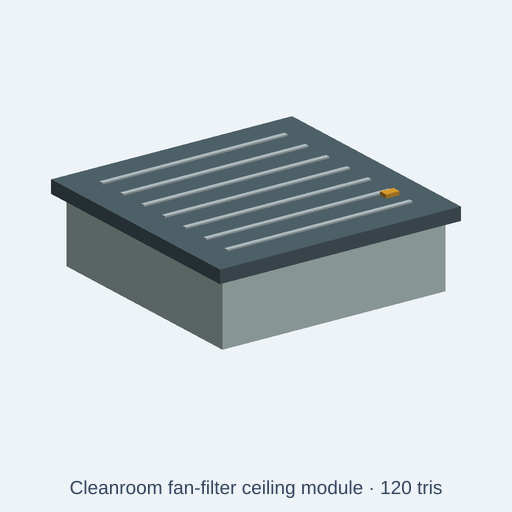
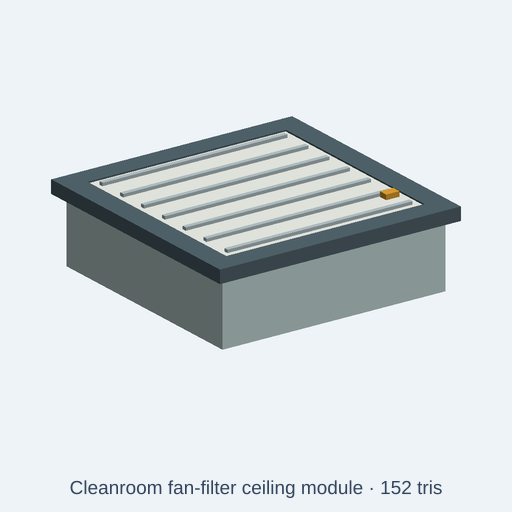
fix(catalog): add HEPA filter media to fan-filter unit
The room-side face of lab-infrastructure/cleanroom-fan-filter-unit was a
solid structural-steel plate with no filter media. Cut the plate into a
steel perimeter flange and add a filter-media part with a filterMedia
colour control and preset values. Envelope unchanged; 120 -> 152 tris.

Changed region(s): [[0.1562, 0.25, 0.8438, 0.5], [0.75, 0.9375, 0.8125, 0.9688]]

diff --git a/tests/integration/catalog/cleanroomFanFilterMedia.test.ts b/tests/integration/catalog/cleanroomFanFilterMedia.test.ts
@@ -1,0 +1,94 @@
+// SPDX-License-Identifier: MIT
+// Copyright (c) 2026 Andrii Shylenko and kernelCAD contributors
+
+import { resolve } from 'node:path';
+import { NodeIO } from '@gltf-transform/core';
+import { beforeAll, describe, expect, it } from 'vitest';
+import { buildCatalogAssetWithGlb } from '../../../src/agent/catalog/buildCatalog';
+import { initOcct } from '../../../src/kernel/backends/occt/occtBackend';
+
+const repoRoot = resolve(import.meta.dirname, '../../..');
+const source = 'catalog/kits/lab-infrastructure/cleanroom-fan-filter-unit.kcad.ts';
+
+beforeAll(async () => {
+  await initOcct();
+}, 120_000);
+
+describe('lab-infrastructure/cleanroom-fan-filter-unit filter media', () => {
+  it('shows a HEPA media face inside the steel flange instead of a solid steel plate', async () => {
+    const { asset, glb } = await buildCatalogAssetWithGlb(repoRoot, source);
+
+    expect(asset.stats.triangles).toBe(152);
+    expect(asset.stats.triangles).toBeLessThanOrEqual(asset.triangleBudget);
+    [0.972, 0.32, 0.972].forEach((expected, axis) => {
+      expect(asset.stats.sizeM[axis]).toBeCloseTo(expected, 5);
+    });
+    expect(asset.description).toContain('white HEPA filter-media face');
+    expect(asset.params.filter((param) => param.type === 'color').map((param) => param.name)).toEqual([
+      'enamel', 'polymer', 'stainless', 'steel', 'filterMedia',
+    ]);
+    expect(asset.presets.cleanroom?.filterMedia).toBe('#f6f8f4');
+    expect(asset.presets.highVisibility?.filterMedia).toBe('#e4e6dc');
+
+    const media = asset.palette.find((zone) => zone.name === 'filterMedia');
+    expect(media?.color).toBe('#eef0ea');
+    expect(media?.parts).toEqual(['filter-media']);
+    const steel = asset.palette.find((zone) => zone.name === 'steel');
+    expect(steel?.parts).toEqual(['perimeter-frame']);
+
+    const document = await new NodeIO().readBinary(glb);
+    const nodes = document.getRoot().listNodes();
+    const boundsFor = (name: string) => {
+      const node = nodes.find((candidate) => candidate.getName() === name);
+      const position = node?.getMesh()?.listPrimitives()[0]?.getAttribute('POSITION');
+      expect(position, `expected exported positions for ${name}`).toBeTruthy();
+      const min = [Infinity, Infinity, Infinity];
+      const max = [-Infinity, -Infinity, -Infinity];
+      for (let index = 0; index < position!.getCount(); index += 1) {
+        const point = position!.getElement(index, []);
+        point.forEach((value, axis) => {
+          min[axis] = Math.min(min[axis]!, value);
+          max[axis] = Math.max(max[axis]!, value);
+        });
+      }
+      return { min, max };
+    };
+    const colorsFor = (name: string) => {
+      const node = nodes.find((candidate) => candidate.getName() === name);
+      return node?.getMesh()?.listPrimitives().flatMap((primitive) => {
+        const vertexColors = primitive.getAttribute('COLOR_0');
+        if (vertexColors !== null) {
+          return Array.from({ length: vertexColors.getCount() }, (_, index) => {
+            const color = vertexColors.getElement(index, []);
+            return color.slice(0, 3).map((channel) =>
+              channel <= 0.0031308 ? 12.92 * channel : 1.055 * channel ** (1 / 2.4) - 0.055,
+            );
+          });
+        }
+        const material = primitive.getMaterial();
+        return material === null ? [] : [material.getBaseColorFactor().slice(0, 3)];
+      }) ?? [];
+    };
+
+    const expectedMedia = [0xee / 255, 0xf0 / 255, 0xea / 255];
+    const mediaColors = colorsFor('filter-media');
+    expect(mediaColors.length).toBeGreaterThan(0);
+    expect(mediaColors.every((color) => expectedMedia.every((channel, index) =>
+      Math.abs(channel - color[index]!) < 0.015,
+    ))).toBe(true);
+
+    // Mesh positions are millimetres. The steel flange is a ring: its vertices stay
+    // outside the 800 mm media opening.
+    const frame = nodes.find((node) => node.getName() === 'perimeter-frame');
+    const framePositions = frame?.getMesh()?.listPrimitives()[0]?.getAttribute('POSITION');
+    expect(framePositions).toBeTruthy();
+    const mediaBounds = boundsFor('filter-media');
+    const mediaHalfWidth = (mediaBounds.max[0]! - mediaBounds.min[0]!) / 2;
+    expect(mediaHalfWidth).toBeCloseTo(400, 1);
+    for (let index = 0; index < framePositions!.getCount(); index += 1) {
+      // Height stays at or below 320 mm, so the largest coordinate is lateral.
+      const point = framePositions!.getElement(index, []);
+      expect(Math.max(...point.map(Math.abs))).toBeGreaterThanOrEqual(mediaHalfWidth - 0.1);
+    }
+  }, 120_000);
+});

diff --git a/artifacts/catalog-demos/lab-infrastructure-fan-filter-media-material-review-20261113/after/cleanroom-fan-filter-unit.kcad.ts b/artifacts/catalog-demos/lab-infrastructure-fan-filter-media-material-review-20261113/after/cleanroom-fan-filter-unit.kcad.ts
@@ -1,0 +1,42 @@
+// SPDX-License-Identifier: CC0-1.0
+// Recessed ceiling fan-filter module: an enamel fan housing, a steel T-grid
+// flange around a white HEPA filter-media face, stainless diffuser bars and a
+// status indicator. Authored filter face up; rotate 180 degrees about X to hang
+// it in a ceiling grid.
+meta({
+  name: 'cleanroom-fan-filter-unit',
+  license: 'CC0-1.0',
+  title: 'Cleanroom fan-filter ceiling module',
+  description: 'Recessed ceiling fan-filter module with an enamel housing, steel perimeter flange, white HEPA filter-media face, stainless diffuser bars and a status indicator. Editable material controls: enamel coating, polymer controls, stainless steel, structural steel, HEPA filter media; presets: cleanroom and high visibility.',
+  tags: ['laboratory', 'lab infrastructure', 'research facility', 'low poly', 'CC0'],
+  kit: 'lab-infrastructure',
+  category: 'prop',
+  origin: 'base',
+  compat: ['laboratory', 'research-lab', 'cleanroom', 'science-scene'],
+  triangleBudget: 1800
+});
+
+const scale = param('scale', 1, { label: 'Overall scale', min: 0.7, max: 1.3, step: 0.05 });
+const enamel = param('enamel', '#c9dedc', { label: 'Enamel coating' });
+const polymer = param('polymer', '#e5a331', { label: 'Polymer controls' });
+const stainless = param('stainless', '#b8c7ca', { label: 'Stainless steel' });
+const steel = param('steel', '#53666e', { label: 'Structural steel' });
+const filterMedia = param('filterMedia', '#eef0ea', { label: 'HEPA filter media' });
+presets({
+  cleanroom: { enamel: '#e7f0ed', polymer: '#23a5a2', stainless: '#d0d9d8', steel: '#75888d', filterMedia: '#f6f8f4' },
+  highVisibility: { enamel: '#f0f2e8', polymer: '#ffe000', stainless: '#6f8488', steel: '#33464d', filterMedia: '#e4e6dc' },
+});
+const p = assembly('cleanroom-fan-filter-unit');
+p.part('filter-housing', box(900, 900, 280, true).translate(0, 0, 140).scale(scale).color(enamel));
+p.part('perimeter-frame', box(972, 972, 52, true).subtract(box(800, 800, 60, true)).translate(0, 0, 280).scale(scale).color(steel));
+p.part('filter-media', box(800, 800, 40, true).translate(0, 0, 280).scale(scale).color(filterMedia));
+p.part('filter-slat-0', box(747, 18, 22, true).translate(0, -360, 301).scale(scale).color(stainless));
+p.part('filter-slat-1', box(747, 18, 22, true).translate(0, -240, 301).scale(scale).color(stainless));
+p.part('filter-slat-2', box(747, 18, 22, true).translate(0, -120, 301).scale(scale).color(stainless));
+p.part('filter-slat-3', box(747, 18, 22, true).translate(0, 0, 301).scale(scale).color(stainless));
+p.part('filter-slat-4', box(747, 18, 22, true).translate(0, 120, 301).scale(scale).color(stainless));
+p.part('filter-slat-5', box(747, 18, 22, true).translate(0, 240, 301).scale(scale).color(stainless));
+p.part('filter-slat-6', box(747, 18, 22, true).translate(0, 360, 301).scale(scale).color(stainless));
+p.part('indicator', box(54, 35, 24, true).translate(351, -270, 308).scale(scale).color(polymer));
+
+return p.model();

diff --git a/catalog/kits/lab-infrastructure/cleanroom-fan-filter-unit.kcad.ts b/catalog/kits/lab-infrastructure/cleanroom-fan-filter-unit.kcad.ts
@@ -1,10 +1,13 @@
 // SPDX-License-Identifier: CC0-1.0
-// Recessed ceiling filter module with a faceted grille, perimeter frame and indicator block.
+// Recessed ceiling fan-filter module: an enamel fan housing, a steel T-grid
+// flange around a white HEPA filter-media face, stainless diffuser bars and a
+// status indicator. Authored filter face up; rotate 180 degrees about X to hang
+// it in a ceiling grid.
 meta({
   name: 'cleanroom-fan-filter-unit',
   license: 'CC0-1.0',
   title: 'Cleanroom fan-filter ceiling module',
-  description: 'Recessed ceiling filter module with a faceted grille, perimeter frame and indicator block. Editable material controls: enamel coating, polymer controls, stainless steel, structural steel; presets: cleanroom and high visibility.',
+  description: 'Recessed ceiling fan-filter module with an enamel housing, steel perimeter flange, white HEPA filter-media face, stainless diffuser bars and a status indicator. Editable material controls: enamel coating, polymer controls, stainless steel, structural steel, HEPA filter media; presets: cleanroom and high visibility.',
   tags: ['laboratory', 'lab infrastructure', 'research facility', 'low poly', 'CC0'],
   kit: 'lab-infrastructure',
   category: 'prop',
@@ -18,13 +21,15 @@ const enamel = param('enamel', '#c9dedc', { label: 'Enamel coating' });
 const polymer = param('polymer', '#e5a331', { label: 'Polymer controls' });
 const stainless = param('stainless', '#b8c7ca', { label: 'Stainless steel' });
 const steel = param('steel', '#53666e', { label: 'Structural steel' });
+const filterMedia = param('filterMedia', '#eef0ea', { label: 'HEPA filter media' });
 presets({
-  cleanroom: { enamel: '#e7f0ed', polymer: '#23a5a2', stainless: '#d0d9d8', steel: '#75888d' },
-  highVisibility: { enamel: '#f0f2e8', polymer: '#ffe000', stainless: '#6f8488', steel: '#33464d' },
+  cleanroom: { enamel: '#e7f0ed', polymer: '#23a5a2', stainless: '#d0d9d8', steel: '#75888d', filterMedia: '#f6f8f4' },
+  highVisibility: { enamel: '#f0f2e8', polymer: '#ffe000', stainless: '#6f8488', steel: '#33464d', filterMedia: '#e4e6dc' },
 });
 const p = assembly('cleanroom-fan-filter-unit');
 p.part('filter-housing', box(900, 900, 280, true).translate(0, 0, 140).scale(scale).color(enamel));
-p.part('perimeter-frame', box(972, 972, 52, true).translate(0, 0, 280).scale(scale).color(steel));
+p.part('perimeter-frame', box(972, 972, 52, true).subtract(box(800, 800, 60, true)).translate(0, 0, 280).scale(scale).color(steel));
+p.part('filter-media', box(800, 800, 40, true).translate(0, 0, 280).scale(scale).color(filterMedia));
 p.part('filter-slat-0', box(747, 18, 22, true).translate(0, -360, 301).scale(scale).color(stainless));
 p.part('filter-slat-1', box(747, 18, 22, true).translate(0, -240, 301).scale(scale).color(stainless));
 p.part('filter-slat-2', box(747, 18, 22, true).translate(0, -120, 301).scale(scale).color(stainless));

diff --git a/artifacts/catalog-demos/lab-infrastructure-fan-filter-media-material-review-20261113/before/cleanroom-fan-filter-unit.kcad.ts b/artifacts/catalog-demos/lab-infrastructure-fan-filter-media-material-review-20261113/before/cleanroom-fan-filter-unit.kcad.ts
@@ -1,0 +1,37 @@
+// SPDX-License-Identifier: CC0-1.0
+// Recessed ceiling filter module with a faceted grille, perimeter frame and indicator block.
+meta({
+  name: 'cleanroom-fan-filter-unit',
+  license: 'CC0-1.0',
+  title: 'Cleanroom fan-filter ceiling module',
+  description: 'Recessed ceiling filter module with a faceted grille, perimeter frame and indicator block. Editable material controls: enamel coating, polymer controls, stainless steel, structural steel; presets: cleanroom and high visibility.',
+  tags: ['laboratory', 'lab infrastructure', 'research facility', 'low poly', 'CC0'],
+  kit: 'lab-infrastructure',
+  category: 'prop',
+  origin: 'base',
+  compat: ['laboratory', 'research-lab', 'cleanroom', 'science-scene'],
+  triangleBudget: 1800
+});
+
+const scale = param('scale', 1, { label: 'Overall scale', min: 0.7, max: 1.3, step: 0.05 });
+const enamel = param('enamel', '#c9dedc', { label: 'Enamel coating' });
+const polymer = param('polymer', '#e5a331', { label: 'Polymer controls' });
+const stainless = param('stainless', '#b8c7ca', { label: 'Stainless steel' });
+const steel = param('steel', '#53666e', { label: 'Structural steel' });
+presets({
+  cleanroom: { enamel: '#e7f0ed', polymer: '#23a5a2', stainless: '#d0d9d8', steel: '#75888d' },
+  highVisibility: { enamel: '#f0f2e8', polymer: '#ffe000', stainless: '#6f8488', steel: '#33464d' },
+});
+const p = assembly('cleanroom-fan-filter-unit');
+p.part('filter-housing', box(900, 900, 280, true).translate(0, 0, 140).scale(scale).color(enamel));
+p.part('perimeter-frame', box(972, 972, 52, true).translate(0, 0, 280).scale(scale).color(steel));
+p.part('filter-slat-0', box(747, 18, 22, true).translate(0, -360, 301).scale(scale).color(stainless));
+p.part('filter-slat-1', box(747, 18, 22, true).translate(0, -240, 301).scale(scale).color(stainless));
+p.part('filter-slat-2', box(747, 18, 22, true).translate(0, -120, 301).scale(scale).color(stainless));
+p.part('filter-slat-3', box(747, 18, 22, true).translate(0, 0, 301).scale(scale).color(stainless));
+p.part('filter-slat-4', box(747, 18, 22, true).translate(0, 120, 301).scale(scale).color(stainless));
+p.part('filter-slat-5', box(747, 18, 22, true).translate(0, 240, 301).scale(scale).color(stainless));
+p.part('filter-slat-6', box(747, 18, 22, true).translate(0, 360, 301).scale(scale).color(stainless));
+p.part('indicator', box(54, 35, 24, true).translate(351, -270, 308).scale(scale).color(polymer));
+
+return p.model();

diff --git a/artifacts/catalog-demos/lab-infrastructure-fan-filter-media-material-review-20261113/README.md b/artifacts/catalog-demos/lab-infrastructure-fan-filter-media-material-review-20261113/README.md
@@ -1,0 +1,74 @@
+# Cleanroom fan-filter unit filter-media material review — 13 November 2026
+
+This round reviewed five lab-infrastructure previews and fixed one material
+mismatch in the existing `lab-infrastructure/cleanroom-fan-filter-unit` asset.
+No catalog IDs or kits were added.
+
+## Finding and correction
+
+In the baseline, the whole room-side face was one solid 972 × 972 mm plate in
+the `steel` (structural steel) colour. The model had no filter media. On a real
+fan-filter unit, the room-side face is the HEPA filter media or a white
+diffuser, framed by a narrow flange that sits on the ceiling grid.
+
+The updated model:
+
+- cuts the steel plate into a perimeter flange with an 800 × 800 mm opening;
+- adds a `filter-media` part with a new `filterMedia` colour control
+  (default `#eef0ea`), recessed 6 mm below the flange;
+- sets `filterMedia` in both presets (`cleanroom`, `highVisibility`);
+- updates the source comment and description.
+
+The stainless diffuser bars, enamel housing, indicator and envelope
+(0.972 × 0.32 × 0.972 m) do not change. The mesh grows from 120 to 152
+triangles; the budget is 1,800.
+
+See the [before preview](before/cleanroom-fan-filter-unit.png) and the
+[updated preview](after/cleanroom-fan-filter-unit.png).
+
+## Five-preview ledger
+
+| Asset | Observation | Result |
+| --- | --- | --- |
+| `cleanroom-fan-filter-unit` | Room-side face is a solid structural-steel plate; no filter media. | Fixed in this round. |
+| `laminar-flow-workbench` | HEPA diffuser faces use the `filter` colour; acrylic sides, stainless tray and stand are separate. | No defect found. |
+| `laboratory-fume-hood` | Black epoxy worktop, stainless baffle, glass sash and exhaust collar are separate. | No defect found. |
+| `ultra-low-temperature-freezer` | Condenser grille louvres use the `rubber` control (label: door gasket and caster rubber). Real louvres are metal. | Minor; recorded, not fixed. |
+| `laboratory-gas-cylinder-cabinet` | Exhaust `collar-throat` uses the `cylinder` (gas cylinder paint) control, so it shows green. | Minor; recorded, not fixed. |
+
+The [five-preview sample](sample/five-preview-sample.png) shows the baseline
+renders. The fan-filter defect was selected because it covers the largest
+visible surface of its asset. Neither lab-infrastructure asset is in the
+open-PR list checked on 13 November 2026, and no open issue names the kit.
+
+Known limitation: the asset is authored with the filter face up. To hang it in
+a ceiling grid, rotate it 180 degrees about X. This round did not change the
+orientation, so the catalog preview stays the same view.
+
+## Verification
+
+```sh
+npx tsx scripts/renderCatalogPreviews.ts cleanroom-fan-filter-unit
+npx tsx scripts/buildAssetCatalog.ts
+npx eslint catalog/kits/lab-infrastructure/ tests/integration/catalog/cleanroomFanFilterMedia.test.ts
+npx vitest run tests/integration/catalog/cleanroomFanFilterMedia.test.ts
+python3 scripts/checkCatalogQuality.py --kit lab-infrastructure
+```
+
+Results on 13 November 2026: the focused test passes 1/1 and fails on the
+baseline source (120 triangles instead of 152). ESLint is clean. The
+lab-infrastructure quality gate passes 60/60. The full catalog integration
+suite passes 51/51 files and 84/84 tests in 11 min 37 s
+([log](verification/catalog-integration.log)). The regenerated index changes
+only the `cleanroom-fan-filter-unit` row, and its `sourceSha256` matches the
+source file.
+
+No MP4 was produced in this round. The change is a colour and part split on
+one existing asset; the before/after previews are the visual evidence.
+
+The focused test checks the triangle count, envelope, colour controls, preset
+values, palette mapping, exported media colour, and that every flange vertex
+stays outside the 800 mm opening.
+
+This generic low-poly asset is not a vendor design, filter rating, airflow
+specification or cleanroom certification.
